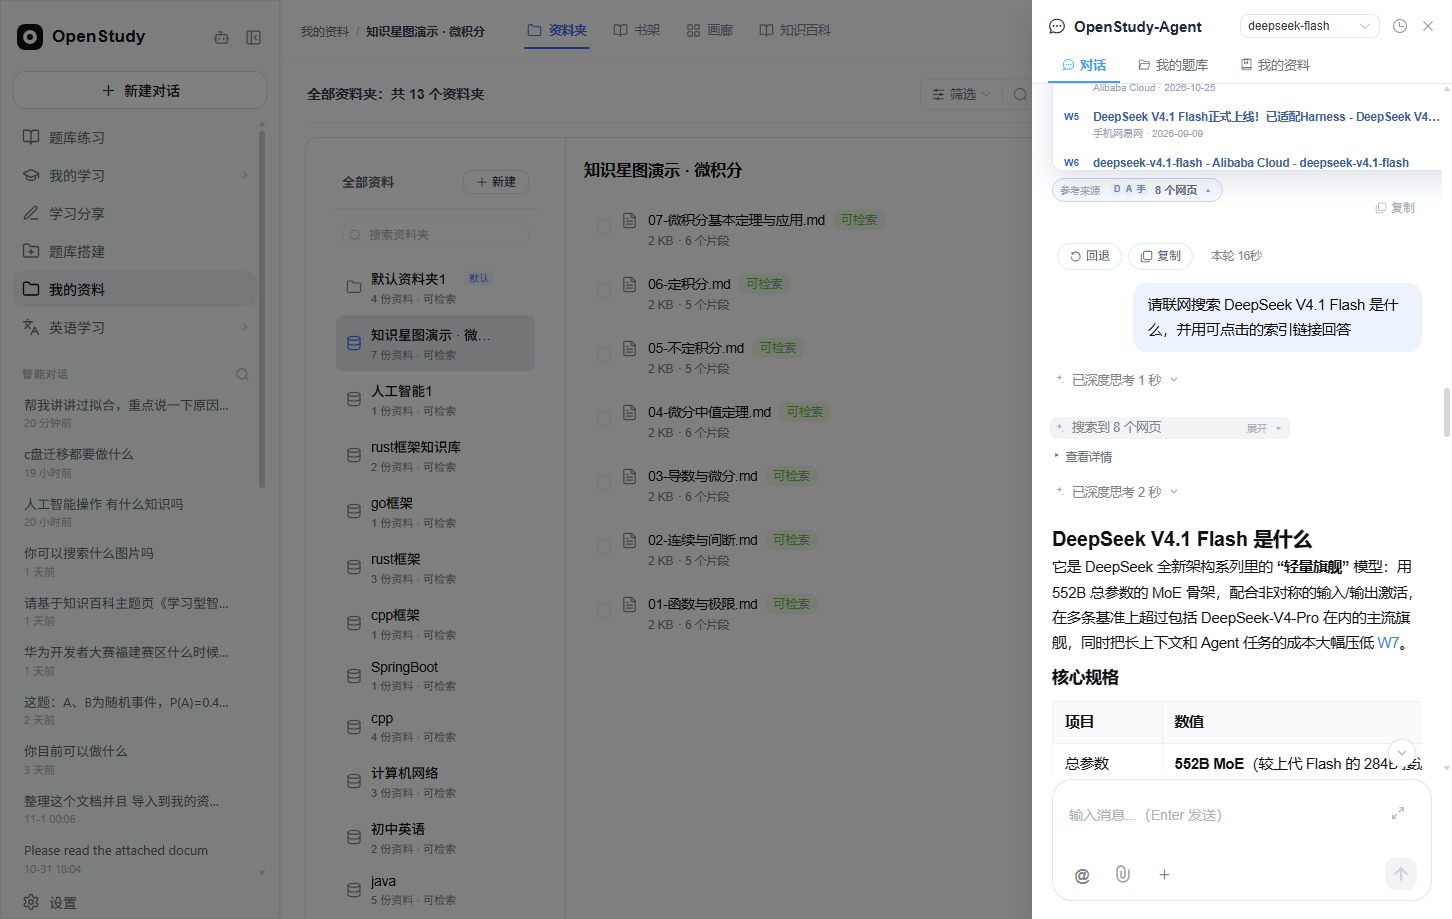
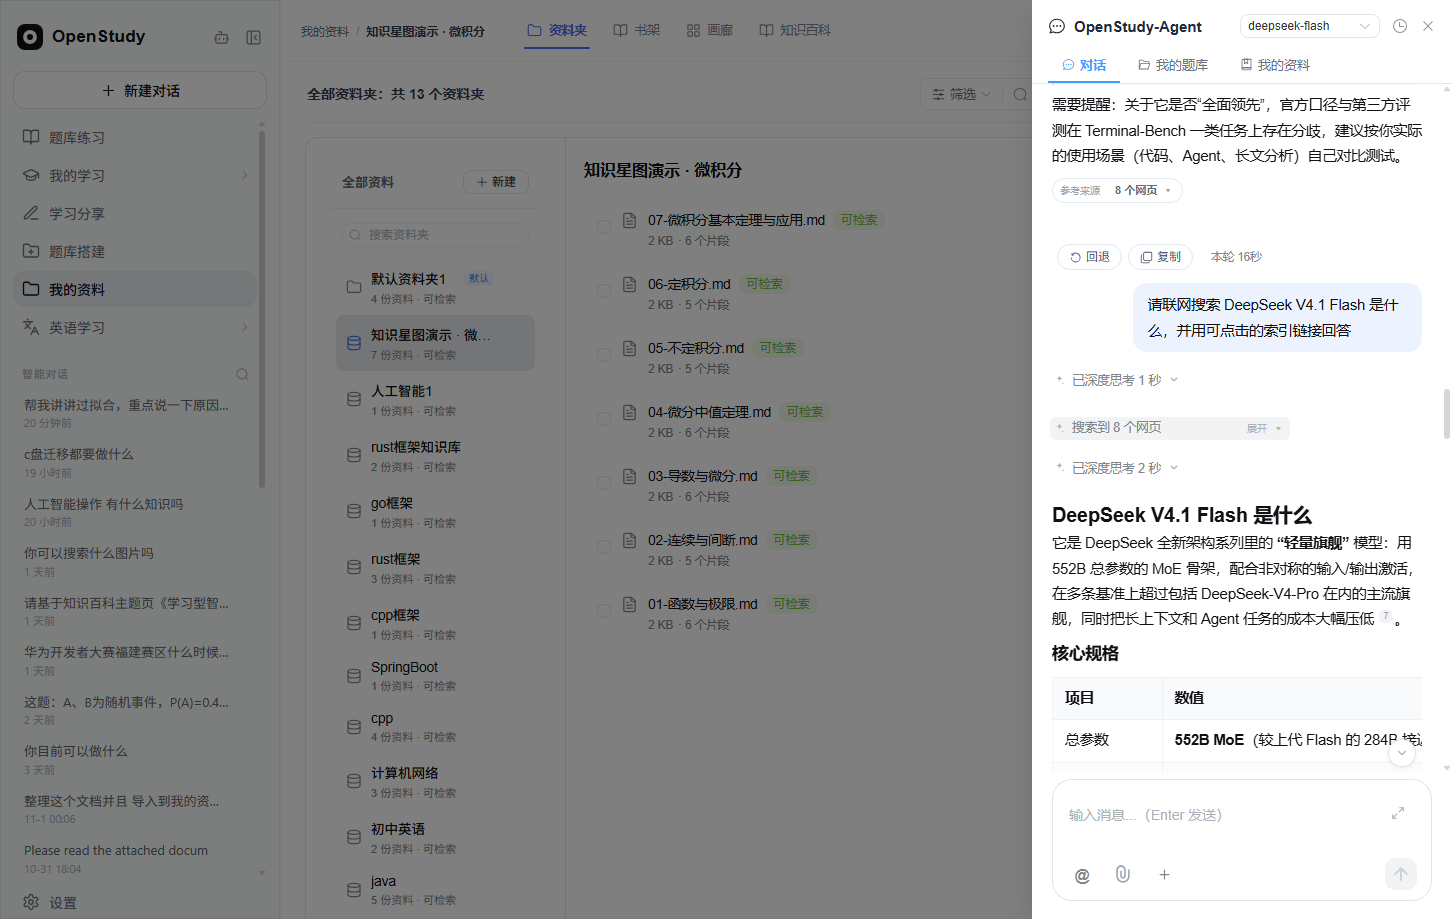
ui: show web citations as gray superscripts
搜索结果默认折叠并可吸顶展开；网页引用由蓝色 W+数字改为灰色小号上标，点击仍打开真实来源；参考来源使用 N 个网页汇总胶囊；网页搜索卡片不再显示重复的原始详情入口。

diff --git a/openstudy-vue3-ts/src/components/ChatAnswerBody/index.vue b/openstudy-vue3-ts/src/components/ChatAnswerBody/index.vue
@@ -33,9 +33,21 @@ const webReferences = computed(() =>
 
 /**
  * 模型有时只写 `W3` / `W3、W5`，不写完整 Markdown 链接。这里用真实
- * 搜索结果把它补成可点击的 `[W3](url)`；没有对应 url 的编号保持原样，
- * 绝不编造链接。
+ * 搜索结果把它补成**灰色小号上标索引**；没有对应 url 的编号保持原样，
+ * 绝不编造链接。参考来源列表在回答底部统一展示。
  */
+function escapeAttr(value: string) {
+  return String(value || '')
+    .replace(/&/g, '&amp;')
+    .replace(/"/g, '&quot;')
+    .replace(/</g, '&lt;')
+    .replace(/>/g, '&gt;')
+}
+
+function citationHtml(number: string, url: string) {
+  return `<sup class="chat-cite"><a href="${escapeAttr(url)}" target="_blank" rel="noopener noreferrer">${number}</a></sup>`
+}
+
 function withWebLinks(content: string) {
   let text = String(content || '')
   if (!webReferences.value.length || !text) return text
@@ -45,7 +57,13 @@ function withWebLinks(content: string) {
     if (index > 0 && ref.url) byIndex.set(index, String(ref.url))
   })
   if (!byIndex.size) return text
-  // 先遮住模型已经写好的 Markdown 链接，避免把链接标签里的 W3 二次替换。
+
+  // 模型已经写成 `[W3](url)` 的，统一转成灰色上标（不保留蓝色链接样式）。
+  text = text.replace(/\[W(\d+)\]\((https?:\/\/[^)\s]+)\)/g, (_whole, number: string, url: string) => {
+    return citationHtml(number, url)
+  })
+
+  // 遮住普通 Markdown 链接，避免把链接标签里的 W3 二次替换。
   const links: string[] = []
   text = text.replace(/\[[^\]]*\]\([^)]*\)/g, (whole) => {
     const token = `\u0000MDLINK${links.length}\u0000`
@@ -54,7 +72,7 @@ function withWebLinks(content: string) {
   })
   text = text.replace(/\bW(\d+)\b/g, (whole: string, number: string) => {
     const url = byIndex.get(Number(number))
-    return url ? `[W${number}](${url})` : whole
+    return url ? citationHtml(number, url) : whole
   })
   return text.replace(/\u0000MDLINK(\d+)\u0000/g, (_whole, index: string) => links[Number(index)] || '')
 }
@@ -299,6 +317,33 @@ const blocks = computed<Block[]>(() =>
 .chat-answer-block__html :deep(h1), .chat-answer-block__html :deep(h2), .chat-answer-block__html :deep(h3),
 .chat-answer-block__html :deep(h4), .chat-answer-block__html :deep(h5), .chat-answer-block__html :deep(h6) { margin: 6px 0 3px; }
 .chat-answer-block__html :deep(pre) { margin: 5px 0; }
+/* 网页检索索引：灰色小上标（不是蓝色 W 编号），点击打开真实来源 */
+.chat-answer-block__html :deep(.chat-cite) {
+  display: inline-flex;
+  align-items: center;
+  justify-content: center;
+  min-width: 13px;
+  height: 13px;
+  margin: 0 2px;
+  padding: 0 3px;
+  border-radius: 4px;
+  vertical-align: super;
+  color: #9aa3b2;
+  background: #f1f3f7;
+  font-size: 9px;
+  line-height: 1;
+  font-weight: 500;
+  text-decoration: none;
+}
+.chat-answer-block__html :deep(.chat-cite a) {
+  color: inherit;
+  text-decoration: none;
+  font: inherit;
+}
+.chat-answer-block__html :deep(.chat-cite:hover) {
+  color: #5f6b7d;
+  background: #e8ecf3;
+}
 .chat-answer-block--plain .chat-answer-block__html :deep(p) { display: inline; margin: 0; }
 .chat-answer-block--plain { display: flex; align-items: baseline; flex-wrap: wrap; gap: 2px; }
 </style>

diff --git a/openstudy-vue3-ts/src/components/AgentToolResult/index.vue b/openstudy-vue3-ts/src/components/AgentToolResult/index.vue
@@ -682,6 +682,8 @@ const nonEmpty = (v: Record<string, any> | null) => Boolean(v && Object.keys(v).
 /** 有入参或有返回值才给「查看详情」；对话文件结果有专用资产卡，内部 JSON 不再外露 */
 const hasDetails = computed(() => {
   if (props.tool === 'chat_file_manage') return false
+  // 网页搜索已有专用折叠结果卡，不再重复暴露「查看详情」的原始 JSON。
+  if (props.tool === 'web_search') return false
   return nonEmpty(props.params) || nonEmpty(props.data)
 })
 

diff --git a/doc/planning/知航活计划-统一学习闭环-实施记录.md b/doc/planning/知航活计划-统一学习闭环-实施记录.md
@@ -65,5 +65,5 @@
 - `npm run build:prod`：exit 0
 - CDP 实测：右侧「知航 · 活计划」面板 → 完整计划抽屉 → 学习统计显示「今日学习任务」；收起侧边栏时只隐藏助手入口，其他导航图标保留；网页手动入口搜出 6 条真实结果；对话自动调用 `web_search`，展示结果卡、来源 chip，正文 `W3` 等索引可点击跳转。
 - 截图：`doc/screenshots/100-study-plan-route.png` ~ `105-stats-today-plan.png`
-- 网页搜索 UI 改版（2026-11-08）：搜索结果工具卡默认折叠为「搜索到 N 个网页」，头部采用深度思考同款四角星 + caret 语言，展开后支持吸顶收起；回答底部「参考来源」改为「N 个网页」汇总胶囊，点击展开真实来源列表，不再铺几十个 chip。截图：`107-web-search-collapsed.png`、`108-web-search-expanded.png`、`109-web-sources-expanded.png`。
+- 网页搜索 UI 改版（2026-11-08）：搜索结果工具卡默认折叠为「搜索到 N 个网页」，头部采用深度思考同款四角星 + caret 语言，展开后支持吸顶收起；回答里的 `W3` 等索引改为**灰色小号上标数字**（不是蓝色 W+数字链接），点击仍打开真实网页；回答底部「参考来源」改为「N 个网页」汇总胶囊，点击展开真实来源列表，不再铺几十个 chip。截图：`107-web-search-collapsed.png`、`108-web-search-expanded.png`、`109-web-sources-expanded.png`、`110-chat-gray-citations.png`。
 - 注意：旧 `StudyPrescriptionPanel` / `ExamPlanPanel` / 周报 / 逐题诊断仍保留，未做破坏性删除。
